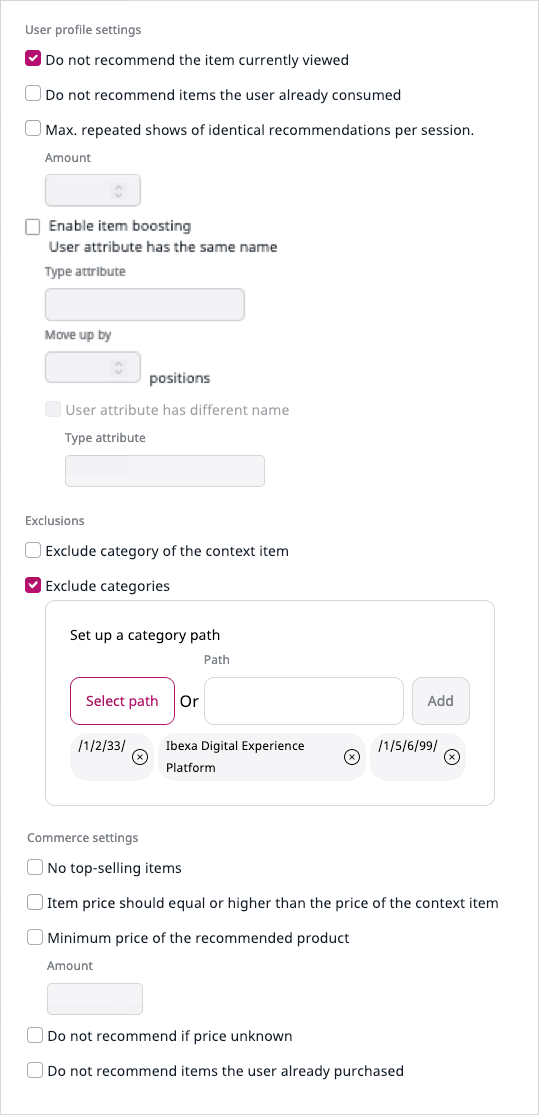
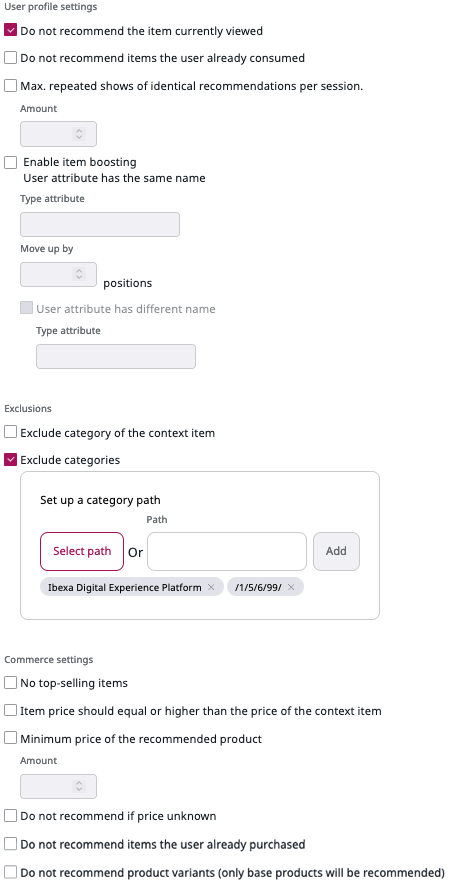
IBX-6102 - PIM integration

diff --git a/docs/personalization/filters.md b/docs/personalization/filters.md
@@ -4,11 +4,13 @@ description: Filters enable you to fine-tune recommendation results by eliminati
 
 # Filters
 
+## General filters
+
 For every recommendation [scenario](scenarios.md), you can define a set of filters. 
 They are tools that you can use to eliminate, demote or promote specific recommendation results.
 Filters are applied to all recommendations that come from [models](recommendation_models.md) selected in the strategy. 
 
-## User profile-based filters
+### User profile-based filters
 
 User profile-based filters are applicable in both publishing and eCommerce use cases. 
 
@@ -18,7 +20,7 @@ User profile-based filters are applicable in both publishing and eCommerce use c
 |Do not recommend items the user already consumed|The Personalization service stores the CONSUME events of every user for one year. When you activate this filter, the user will not be recommended the consumed content again.|
 |Max. repeated shows of identical recommendations per session|When you activate this filter and set a value, after a content item/product is recommended a certain number of times during the current user session, it is removed from all recommendation lists.|
 
-### Boost filters
+#### Boost filters
 
 User profile-based filters include a filter for moving certain items up on the list. 
 If enabled, boosting is triggered when values of a selected attribute from 
@@ -58,8 +60,14 @@ The following filters are only applicable in Commerce use cases.
 |No top-selling items|When you activate this filter, items that come from the top selling model (even if the model itself is not linked to this scenario) are not placed on the recommendations list. This way you can stop promoting products that are already popular. If you apply this filter to a top selling scenario as it will filter out all recommendations.|
 |Item price should be equal or higher than the price of the context product|You can use this filter to filter out items that could be more attractive to the user from the recommendation list. It compares prices exported to the Personalization service with metadata of the currently viewed product.|
 |Minimum price of the recommended product|You can use this filter to remove cheap and popular items from the recommendation list. For example, as an optometrist you might prefer showing the most popular designer frames on the home page and avoid promoting insurance subsidized cheap models or cleaning cloths. Again, this filter relies on product metadata and uses prices exported to the Personalization service.|
-|Do not recommend if price unknown|If a product's price is not available then it will not be recommended.|
-|Do not recommend items the user already purchased|When you activate this filter, the user will not be recommended the purchased products again.|
+|Do not recommend if price unknown|If a product's price is not available then the product is not recommended.|
+|Do not recommend items the user already purchased|When you activate this filter, the user is not recommended the purchased products again.|
+|Do not recommend product variants| By default, this filter is deactivated: only [product variants](../pim/products.md#product-variants) are recommended and the user is not recommended base products. When you activate this filter, a recommendation response includes base products, while product variants are excluded. The filter does not affect products that have no variants. |
+
+!!! note "Product variants support"
+
+    The **Do not recommend product variants** checkbox is visible only if your version of [[= product_name =]] [supports product variants]([[= developer_doc =]]/release_notes/ibexa_dxp_v4.2/#product-variants). 
+    Also, it is not visible before [data is imported](content_import.md) into the Personalization service, therefore you may need to revisit the scenario configuration page when data import completes.
 
 ## Category path filters
 

diff --git a/docs/personalization/configure_scenarios.md b/docs/personalization/configure_scenarios.md
@@ -71,11 +71,13 @@ With filters you can eliminate, demote or promote specific recommendation result
 
 ![General filters](img/scenario_filters.png "General filters in a scenario")
 
-For a complete list of available general filter types and their meaning, see [Filters](filters.md#user-profile-based-filters).
+For a complete list of available general filter types and their meaning, see [General filters](filters.md#general-filters).
+
+## Configure category filters
 
 For each of the importance levels from the strategy configuration matrix, you can 
 configure category filters. 
-Click the **Configure** icon and make necessary changes.
+Click the **Configure** icon next to an importance level name and make necessary changes.
 
 ![Category path filters](img/categorypath_filter.png "Category path filters in strategy settings")
 
